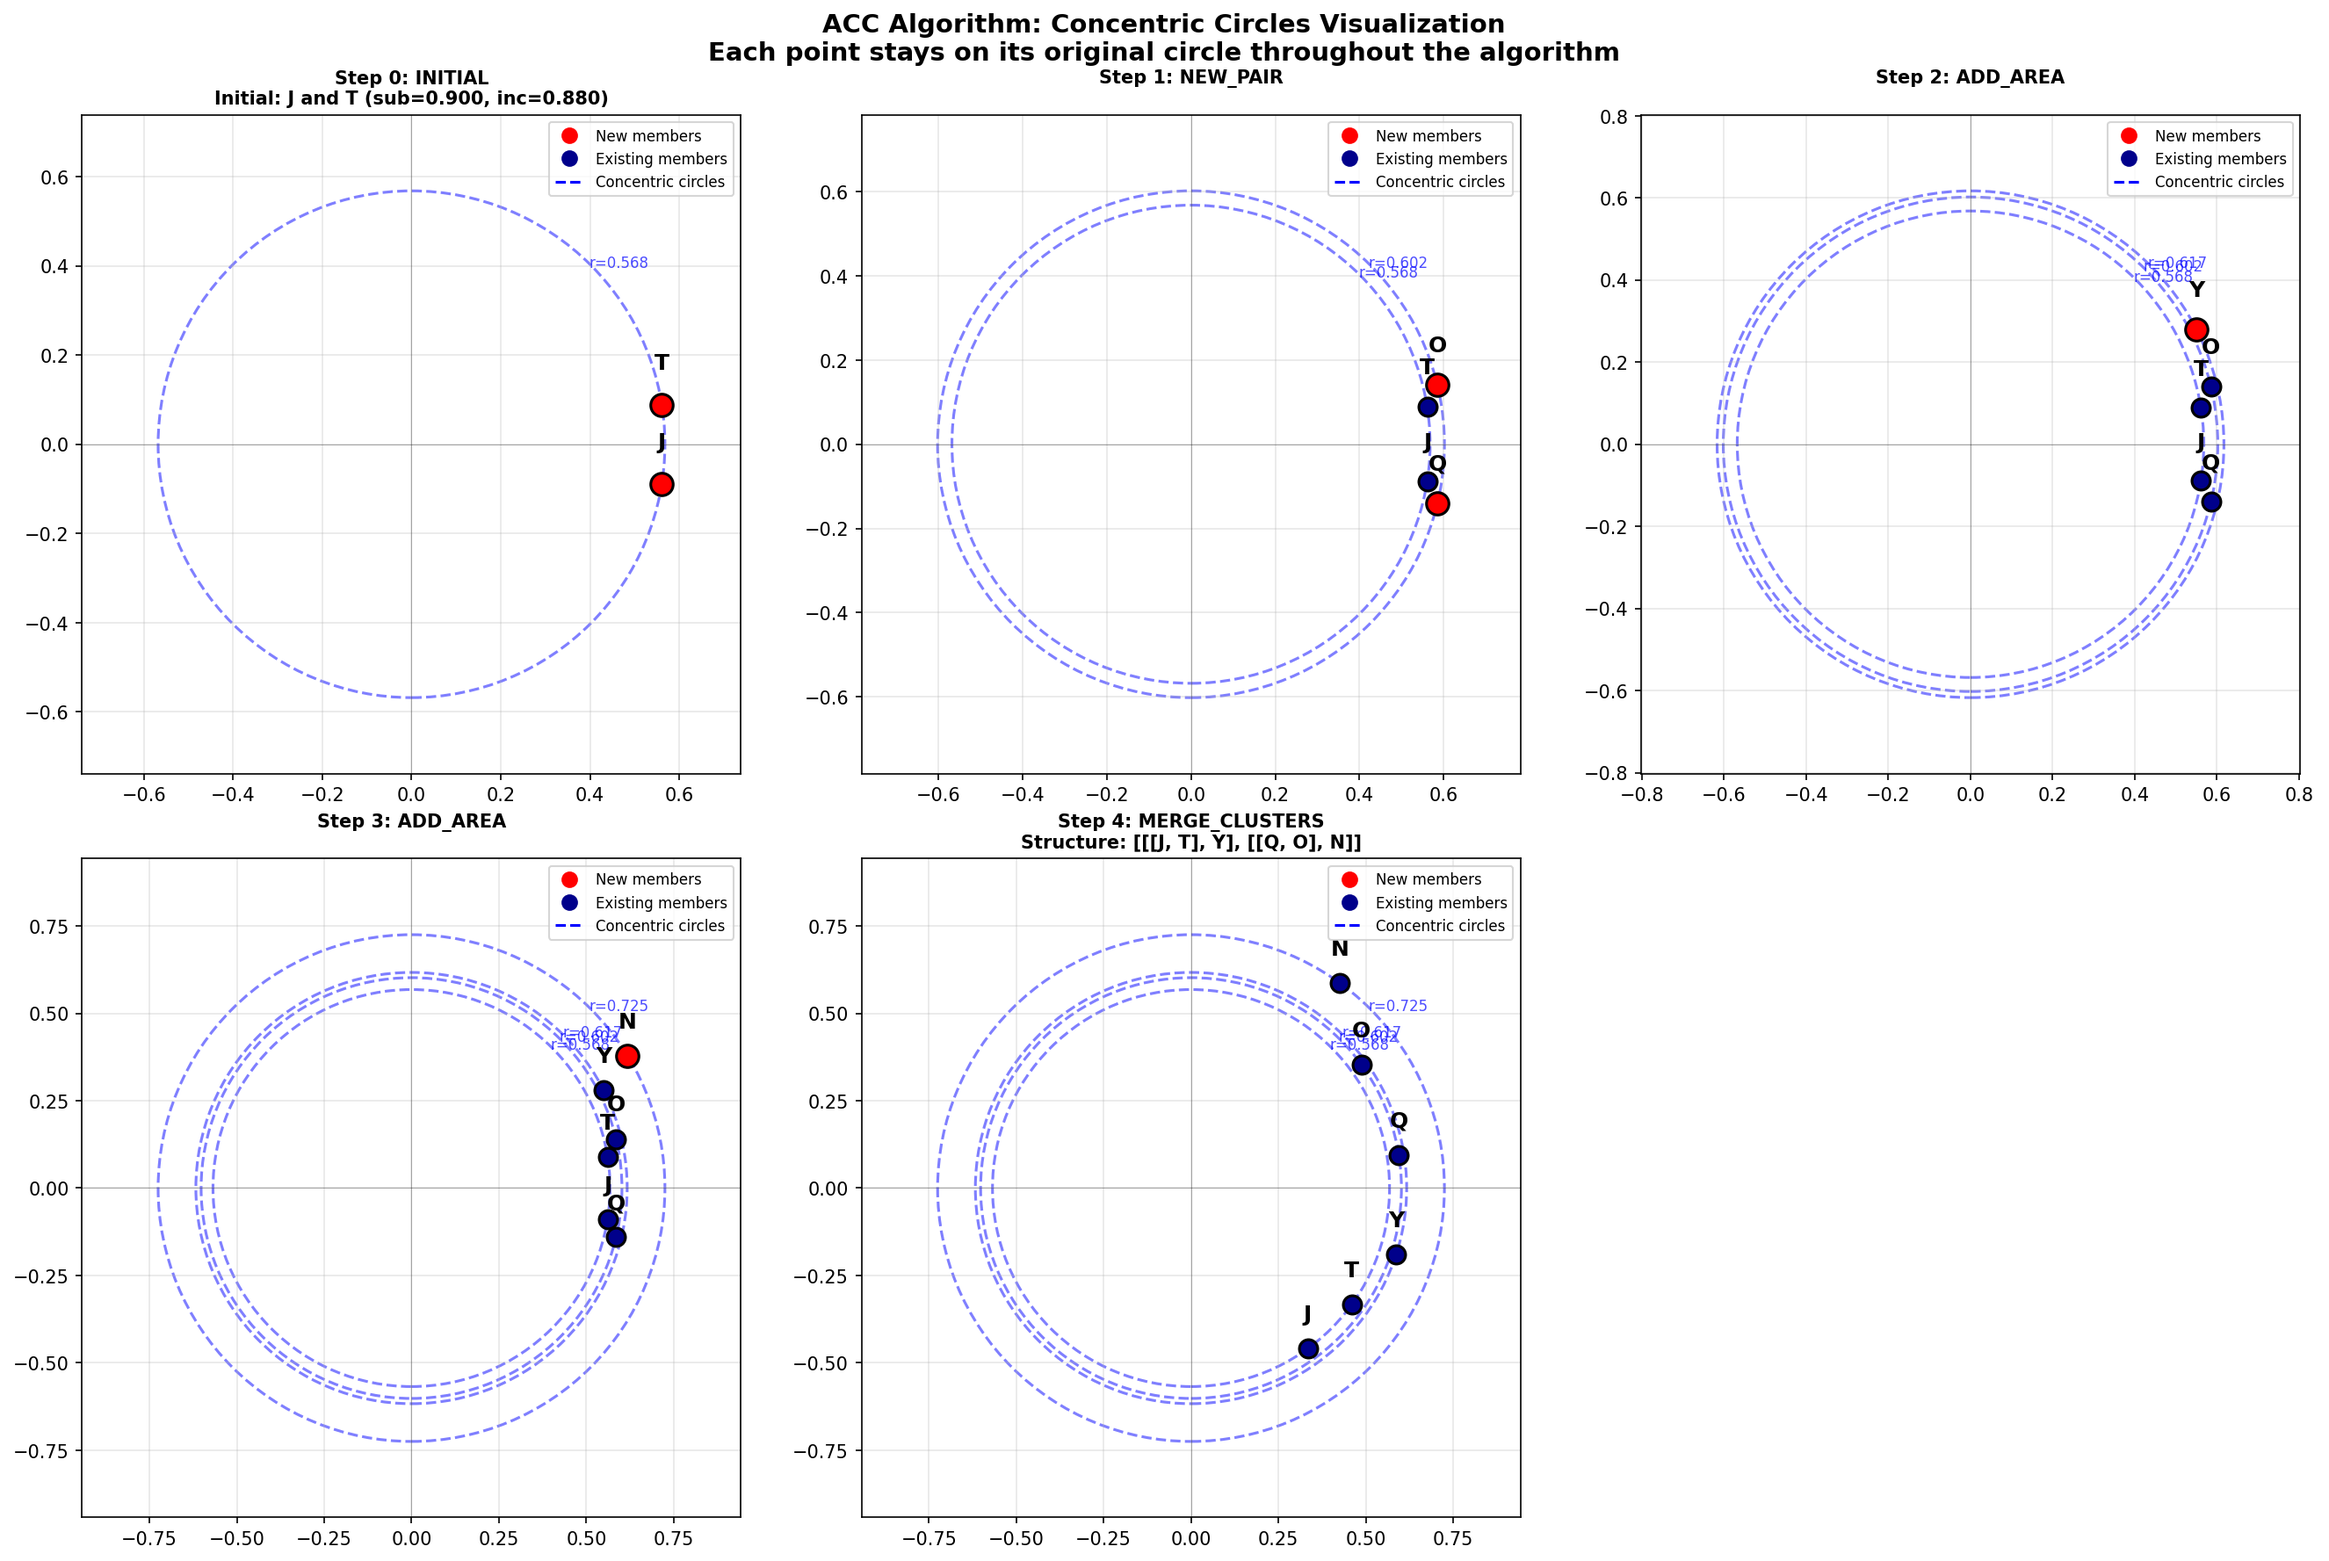
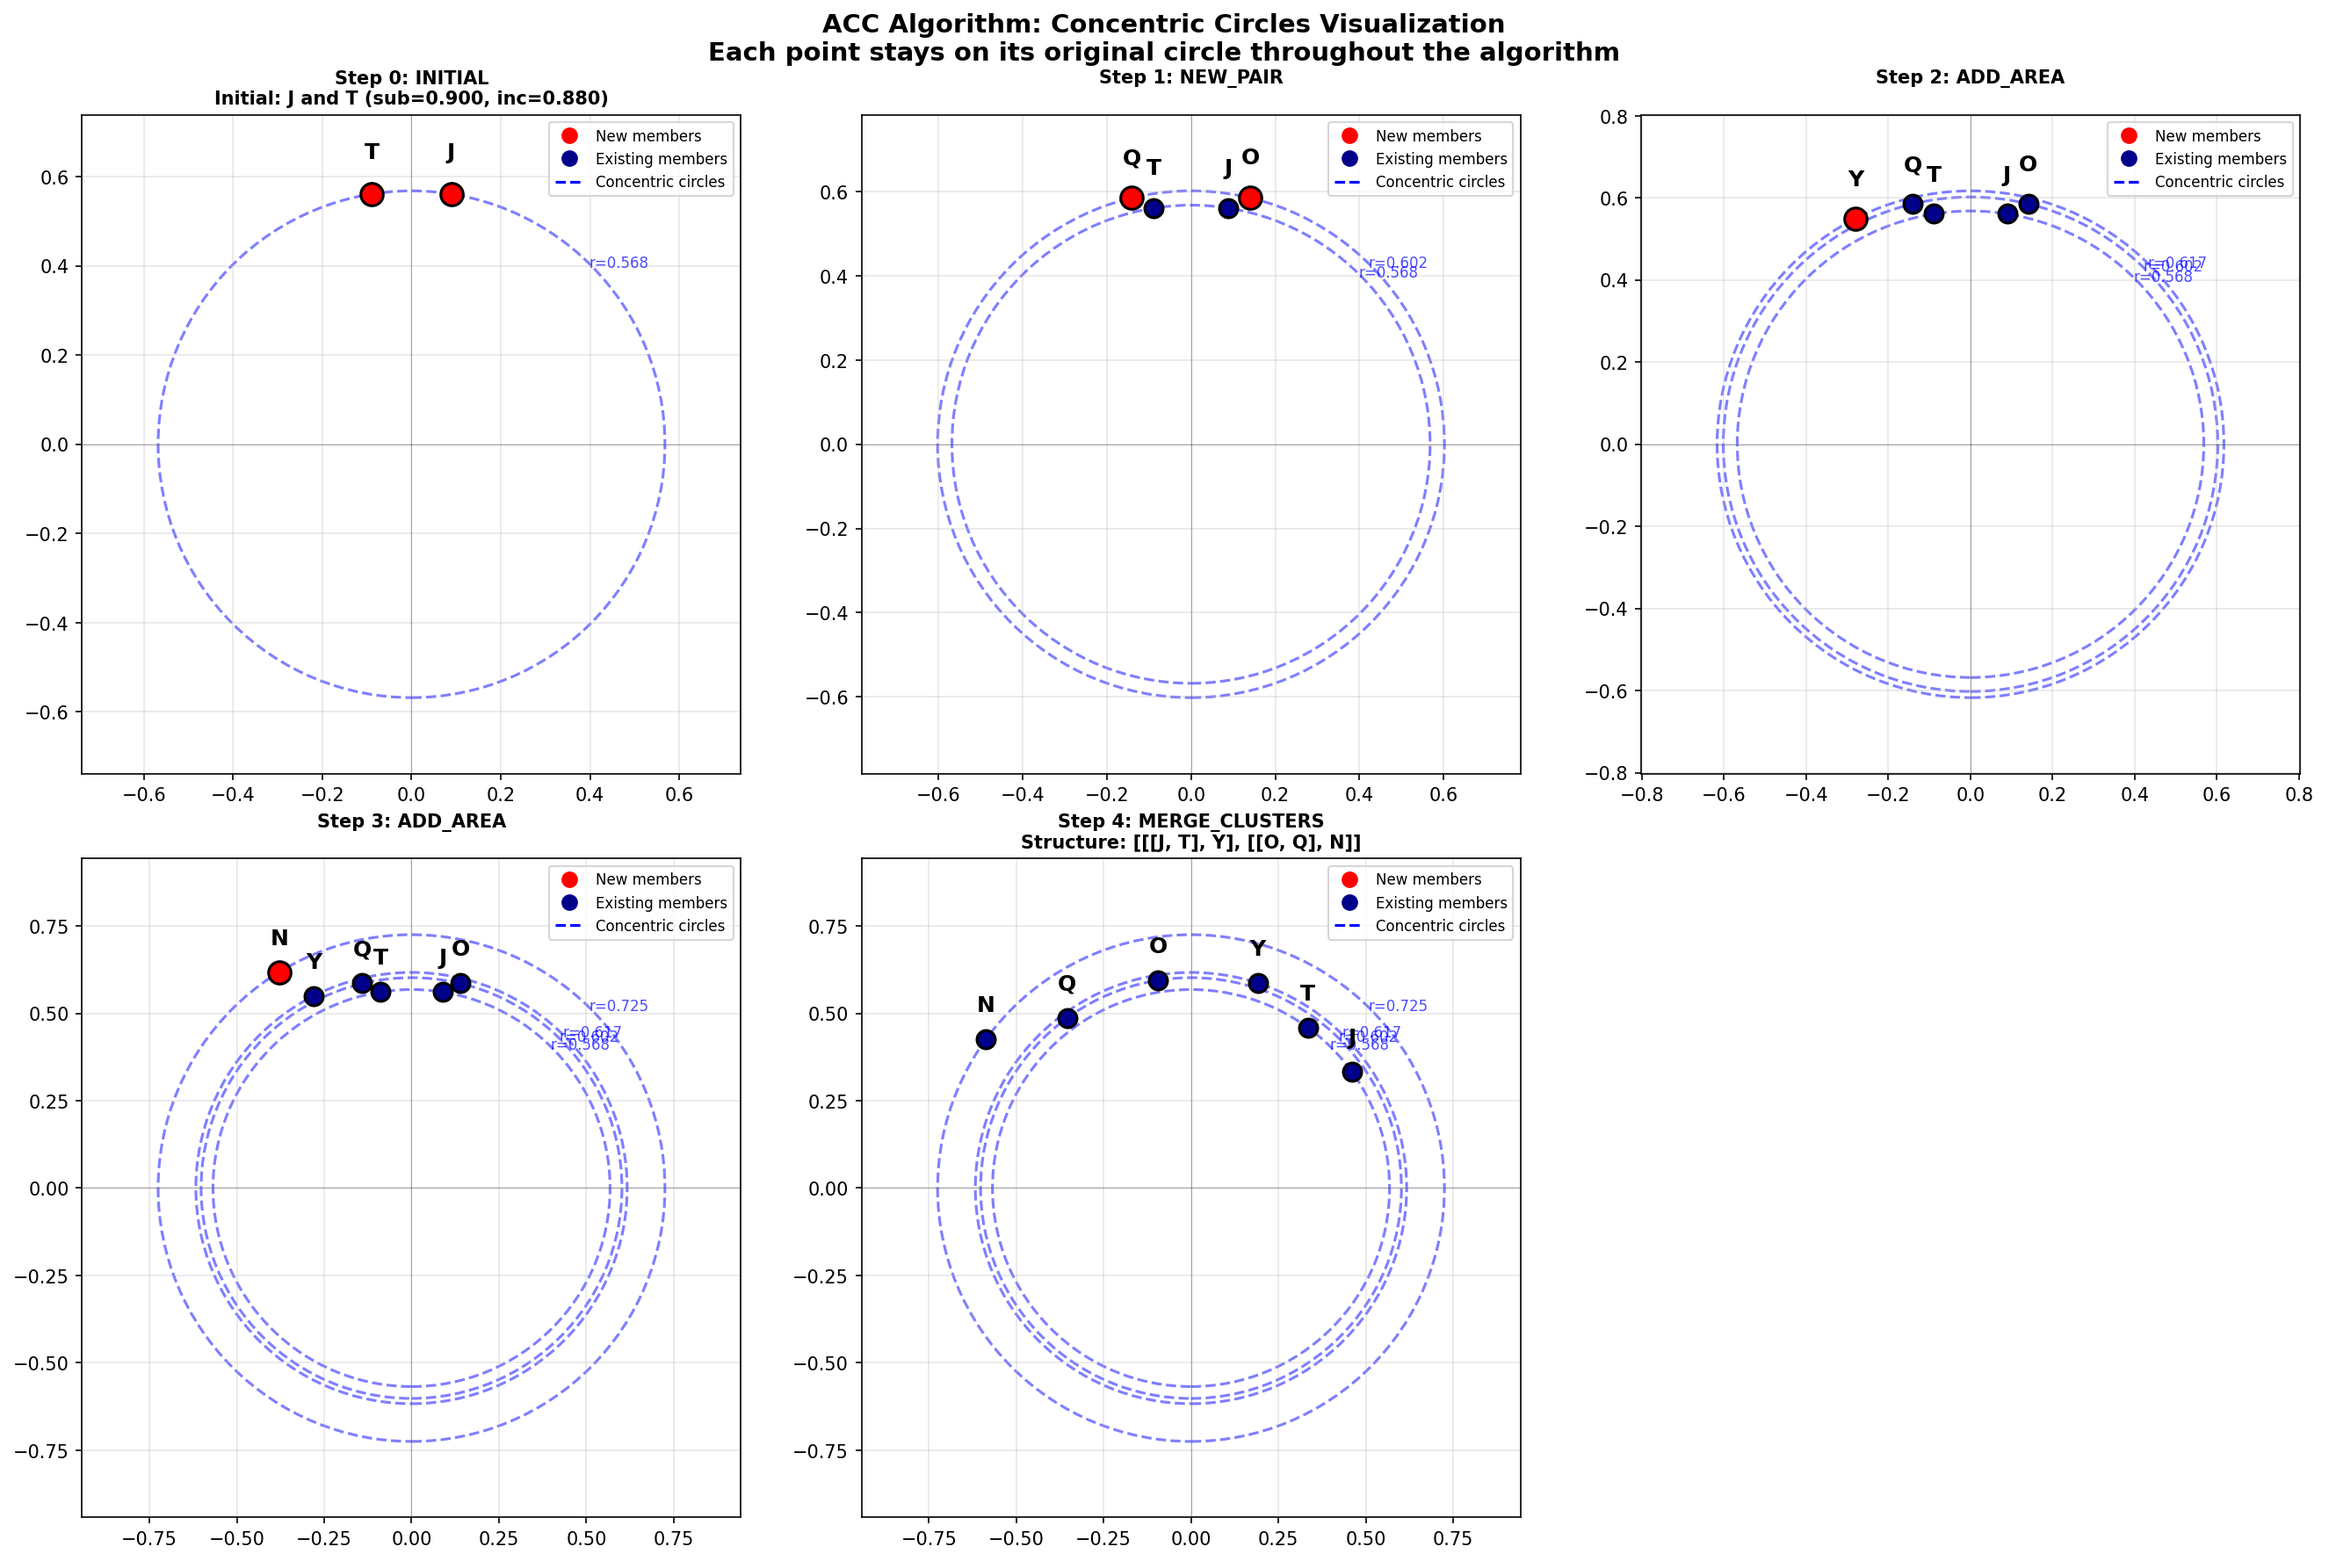
Change polar coordinate reference from (1,0) to (0,1)
Changes:
- Add cart2pol() utility function for consistent coordinate conversion
- Modify pol2cart() to use (0,1) as 0 degrees (upward on y-axis)
- Replace all atan2() calls with cart2pol() for proper angle calculation
- Update visualizations to reflect new coordinate system

Result:
- All points now reference upward (y-axis) as 0 degrees
- J+T cluster positioned at top instead of right
- Angles calculated consistently throughout the algorithm
- Concentric circles structure maintained

🤖 Generated with [Claude Code](https://claude.com/claude-code)

diff --git a/acc_core_new.py b/acc_core_new.py
@@ -20,8 +20,19 @@ logger = logging.getLogger('ACC_Iterative')
 # Utility functions
 # ------------------------------------------------------------
 def pol2cart(r, angle_deg):
-    rad = math.radians(angle_deg)
+    # Reference: (0,1) as 0 degrees (upward on y-axis)
+    # Add 90 degrees to rotate from standard (1,0) reference
+    rad = math.radians(angle_deg + 90)
     return (r * math.cos(rad), r * math.sin(rad))
+
+
+def cart2pol(x, y):
+    # Reference: (0,1) as 0 degrees (upward on y-axis)
+    # Subtract 90 degrees to convert from standard (1,0) reference
+    r = math.sqrt(x**2 + y**2)
+    angle_rad = math.atan2(y, x)
+    angle_deg = math.degrees(angle_rad) - 90
+    return (r, angle_deg)
 
 
 def cart_add(a, b):
@@ -491,8 +502,8 @@ def add_area_to_cluster(cluster, new_area, sub_matrix, inc_matrix, unit=1.0):
     best_pos = new_cluster['points'][best_member]
 
     # Calculate angle of best_member from center
-    member_angle = math.degrees(math.atan2(best_pos[1] - new_cluster['center'][1],
-                                            best_pos[0] - new_cluster['center'][0]))
+    center = new_cluster['center']
+    _, member_angle = cart2pol(best_pos[0] - center[0], best_pos[1] - center[1])
 
     # New area's angle
     new_pos_angle = member_angle + angle_from_member
@@ -612,10 +623,10 @@ def merge_two_clusters(c1, c2, sub_matrix, inc_matrix, unit=1.0):
 
     # Calculate current angles of m1 and m2
     m1_pos = c1['points'][m1]
-    m1_current_angle = math.degrees(math.atan2(m1_pos[1], m1_pos[0]))
+    _, m1_current_angle = cart2pol(m1_pos[0], m1_pos[1])
 
     m2_pos = c2['points'][m2]
-    m2_current_angle = math.degrees(math.atan2(m2_pos[1], m2_pos[0]))
+    _, m2_current_angle = cart2pol(m2_pos[0], m2_pos[1])
 
     # Target angles: m1 at -alignment_angle/2, m2 at +alignment_angle/2
     m1_target_angle = -alignment_angle / 2.0
@@ -628,8 +639,7 @@ def merge_two_clusters(c1, c2, sub_matrix, inc_matrix, unit=1.0):
     # Rotate all members of c1 around origin
     for member in c1['members']:
         old_pos = c1['points'][member]
-        old_angle = math.degrees(math.atan2(old_pos[1], old_pos[0]))
-        old_radius = math.sqrt(old_pos[0]**2 + old_pos[1]**2)
+        old_radius, old_angle = cart2pol(old_pos[0], old_pos[1])
 
         # Apply rotation, keep radius unchanged
         new_angle = old_angle + rotation1
@@ -638,8 +648,7 @@ def merge_two_clusters(c1, c2, sub_matrix, inc_matrix, unit=1.0):
     # Rotate all members of c2 around origin
     for member in c2['members']:
         old_pos = c2['points'][member]
-        old_angle = math.degrees(math.atan2(old_pos[1], old_pos[0]))
-        old_radius = math.sqrt(old_pos[0]**2 + old_pos[1]**2)
+        old_radius, old_angle = cart2pol(old_pos[0], old_pos[1])
 
         # Apply rotation, keep radius unchanged
         new_angle = old_angle + rotation2
